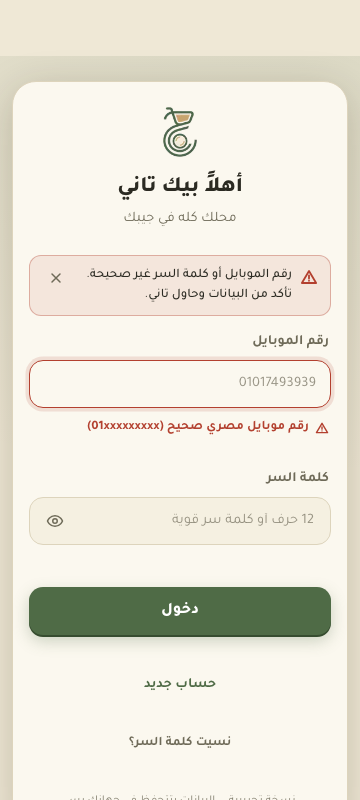
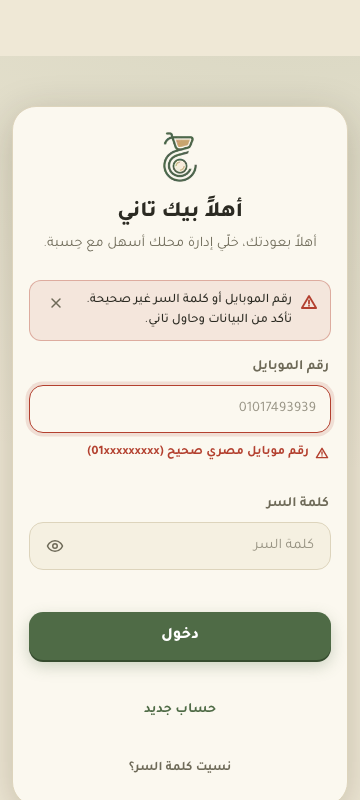
fix(auth): polish form copy and password validation

diff --git a/tests/e2e/auth-screens.spec.ts b/tests/e2e/auth-screens.spec.ts
@@ -29,6 +29,10 @@ test.describe("Auth & Profile UI at 360px (Phone + Password)", () => {
     });
 
     await expect(page.locator("h1")).toHaveText("افتح حساب حسبة");
+    await expect(page.locator("p").first()).toContainText(
+      "ابدأ تنظيم حسابات محلك ومخزونه مع حِسبة.",
+    );
+    await expect(page.locator("body")).not.toContainText("نسخة تجريبية");
     await page.screenshot({
       path: path.join(screenshotsDir, "auth-signup-step1.png"),
       fullPage: false,
@@ -48,6 +52,7 @@ test.describe("Auth & Profile UI at 360px (Phone + Password)", () => {
     await expect(
       page.locator('input[placeholder="مثال: سوبر ماركت البركة"]'),
     ).toBeVisible();
+    await expect(page.locator("body")).not.toContainText("نسخة تجريبية");
     await page.screenshot({
       path: path.join(screenshotsDir, "auth-signup-step2.png"),
       fullPage: false,
@@ -65,6 +70,11 @@ test.describe("Auth & Profile UI at 360px (Phone + Password)", () => {
       `,
     });
     await expect(page.locator("h1")).toHaveText("أهلاً بيك تاني");
+    await expect(page.locator("p").first()).toContainText(
+      "أهلاً بعودتك، خلّي إدارة محلك أسهل مع حِسبة.",
+    );
+    await expect(page.locator('input[placeholder="كلمة السر"]')).toBeVisible();
+    await expect(page.locator("body")).not.toContainText("نسخة تجريبية");
     await page.screenshot({
       path: path.join(screenshotsDir, "auth-login.png"),
       fullPage: false,
@@ -82,6 +92,10 @@ test.describe("Auth & Profile UI at 360px (Phone + Password)", () => {
       `,
     });
     await expect(page.locator("h1")).toHaveText("نسيت كلمة السر؟");
+    await expect(page.locator("p").first()).toContainText(
+      "خطوة بسيطة وترجع لحسابك وتكمل شغلك.",
+    );
+    await expect(page.locator("body")).not.toContainText("نسخة تجريبية");
     await page.screenshot({
       path: path.join(screenshotsDir, "auth-forgot-password.png"),
       fullPage: false,
@@ -172,20 +186,38 @@ test.describe("Auth & Profile UI at 360px (Phone + Password)", () => {
     await page.goto("/");
     await page.waitForLoadState("domcontentloaded");
     await expect(page.locator("h1")).toHaveText("أهلاً بيك تاني");
+    await expect(page.locator("p").first()).toContainText(
+      "أهلاً بعودتك، خلّي إدارة محلك أسهل مع حِسبة.",
+    );
+    await expect(page.locator('input[placeholder="كلمة السر"]')).toBeVisible();
+    await expect(page.locator("body")).not.toContainText("نسخة تجريبية");
 
     // 2. /login renders canonical login
     await page.goto("/login");
     await page.waitForLoadState("domcontentloaded");
     await expect(page.locator("h1")).toHaveText("أهلاً بيك تاني");
+    await expect(page.locator("p").first()).toContainText(
+      "أهلاً بعودتك، خلّي إدارة محلك أسهل مع حِسبة.",
+    );
+    await expect(page.locator('input[placeholder="كلمة السر"]')).toBeVisible();
+    await expect(page.locator("body")).not.toContainText("نسخة تجريبية");
 
     // 3. /signup renders registration flow
     await page.goto("/signup");
     await page.waitForLoadState("domcontentloaded");
     await expect(page.locator("h1")).toHaveText("افتح حساب حسبة");
+    await expect(page.locator("p").first()).toContainText(
+      "ابدأ تنظيم حسابات محلك ومخزونه مع حِسبة.",
+    );
+    await expect(page.locator("body")).not.toContainText("نسخة تجريبية");
 
     // 4. /forgot-password renders recovery request
     await page.goto("/forgot-password");
     await page.waitForLoadState("domcontentloaded");
     await expect(page.locator("h1")).toHaveText("نسيت كلمة السر؟");
+    await expect(page.locator("p").first()).toContainText(
+      "خطوة بسيطة وترجع لحسابك وتكمل شغلك.",
+    );
+    await expect(page.locator("body")).not.toContainText("نسخة تجريبية");
   });
 });

diff --git a/src/client/shared/auth/AuthScreen.tsx b/src/client/shared/auth/AuthScreen.tsx
@@ -441,7 +441,7 @@ export function AuthScreen({
                 <input
                   type={showPassword ? "text" : "password"}
                   autoComplete="current-password"
-                  placeholder={t("auth.passwordPlaceholder")}
+                  placeholder={t("auth.loginPasswordPlaceholder")}
                   value={loginPassword}
                   onChange={(e) => {
                     setLoginPassword(e.target.value);
@@ -490,8 +490,6 @@ export function AuthScreen({
             >
               {t("auth.forgotPasswordLink")}
             </button>
-
-            <small className={styles.note}>{t("auth.testNote")}</small>
           </form>
         )}
 
@@ -631,8 +629,6 @@ export function AuthScreen({
                 >
                   {t("auth.hasAccount")}
                 </button>
-
-                <small className={styles.note}>{t("auth.testNote")}</small>
               </div>
             )}
 
@@ -802,8 +798,6 @@ export function AuthScreen({
                 >
                   {t("auth.hasAccount")}
                 </button>
-
-                <small className={styles.note}>{t("auth.testNote")}</small>
               </form>
             )}
           </div>
@@ -853,8 +847,6 @@ export function AuthScreen({
                 >
                   {t("auth.backToLogin")}
                 </button>
-
-                <small className={styles.note}>{t("auth.testNote")}</small>
               </form>
             ) : (
               <form onSubmit={handleResetPassword} className={styles.body}>
@@ -987,8 +979,6 @@ export function AuthScreen({
                 >
                   {t("auth.backToLogin")}
                 </button>
-
-                <small className={styles.note}>{t("auth.testNote")}</small>
               </form>
             )}
           </div>

diff --git a/tests/unit/client/i18n.spec.ts b/tests/unit/client/i18n.spec.ts
@@ -19,6 +19,19 @@ describe("i18n and formatting utilities", () => {
     expect(t("non.existent.key")).toBe("non.existent.key");
   });
 
+  it("contains clean marketing copy without demo version claims in auth strings", () => {
+    expect(t("auth.loginSub")).toBe(
+      "أهلاً بعودتك، خلّي إدارة محلك أسهل مع حِسبة.",
+    );
+    expect(t("auth.signupSub")).toBe(
+      "ابدأ تنظيم حسابات محلك ومخزونه مع حِسبة.",
+    );
+    expect(t("auth.forgotPasswordSub")).toBe(
+      "خطوة بسيطة وترجع لحسابك وتكمل شغلك.",
+    );
+    expect(t("auth.loginPasswordPlaceholder")).toBe("كلمة السر");
+  });
+
   it("formats piasters as Egyptian Pounds with ج.م suffix", () => {
     expect(formatMoney(1550)).toBe("15.50 ج.م");
     expect(formatMoney(1500)).toBe("15 ج.م");
